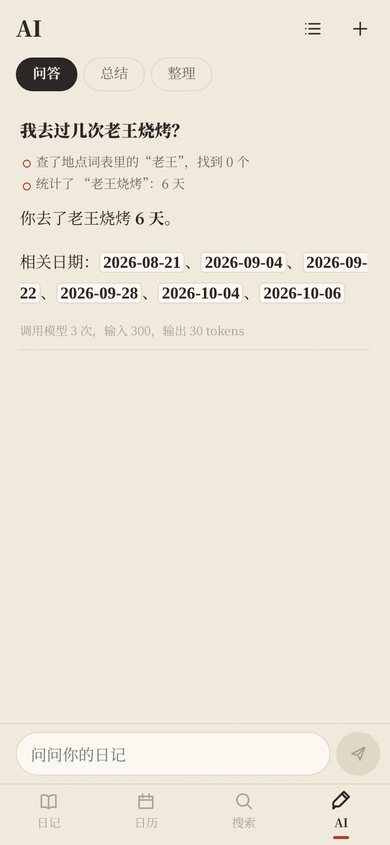
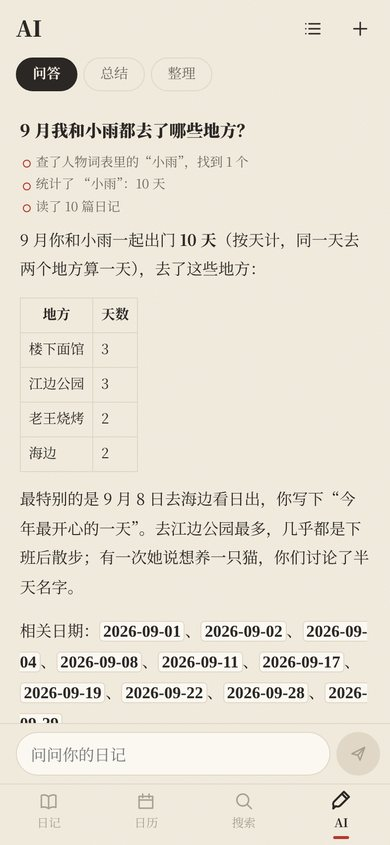
设置里新增“关于”页；README 换上更丰富的 AI 问答和总结截图
- 关于页：slogan“浮生若梦，落笔为记”、版本、检查更新、代码仓库、联系作者、开源许可与致谢
- README 截图改用虚构的三个月日记：多轮查询后带表格的 AI 回答、带小标题的月度总结、一篇日记的阅读视图

diff --git a/e2e/readme.test.ts b/e2e/readme.test.ts
@@ -1,0 +1,202 @@
+/**
+ * README 截图和“关于”页：用一份虚构的三个月日记，加一个会多轮查日记的模拟模型，
+ * 拍下 AI 问答和月度总结的样子（e2e/out/readme-*.png），再看一眼关于页。
+ * 日记里的人名、地名都是虚构的。
+ */
+import { afterAll, beforeAll, describe, expect, it } from 'vitest'
+import { chromium, type Browser, type Page, type Route } from 'playwright'
+import { spawn, type ChildProcess } from 'node:child_process'
+import { mkdirSync } from 'node:fs'
+import { startLlmMock, type LlmMock, type Turn } from '../tests/mocks/llmServer'
+
+const OUT = new URL('./out/', import.meta.url).pathname
+mkdirSync(OUT, { recursive: true })
+const PORT = 4176
+const BASE = `http://127.0.0.1:${PORT}/`
+const CORS = { 'Access-Control-Allow-Origin': '*', 'Access-Control-Allow-Headers': '*', 'Access-Control-Allow-Methods': 'GET,POST,OPTIONS' }
+
+let server: ChildProcess
+let browser: Browser
+let llm: LlmMock
+
+const ymd = (d: Date) => `${d.getFullYear()}-${String(d.getMonth() + 1).padStart(2, '0')}-${String(d.getDate()).padStart(2, '0')}`
+const md = (s: string) => `${Number(s.slice(5, 7))} 月 ${Number(s.slice(8, 10))} 日`
+
+interface Seed { date: string; mood: number; tags: string[]; people: string[]; places: string[]; weather: string; temp: number; body: string }
+
+/** 从三个月前到昨天，大约七成的日子写了日记 */
+function seedEntries(): Seed[] {
+  const out: Seed[] = []
+  const today = new Date()
+  const start = new Date(today.getFullYear(), today.getMonth() - 3, 1)
+  const weathers = ['晴', '多云', '小雨', '阴', '晴']
+  let i = 0
+  for (const d = new Date(start); d < today; d.setDate(d.getDate() + 1), i++) {
+    if ((i * 7) % 10 >= 7) continue
+    const date = ymd(d)
+    const k = i % 9
+    const w = weathers[i % weathers.length]
+    const temp = 18 + ((i * 3) % 13)
+    const s: Seed[] = [
+      { date, mood: 4, tags: ['约会'], people: ['小雨'], places: ['江边公园'], weather: w, temp, body: '下班后和小雨去江边公园散步，风很舒服。她说想养一只猫，我们讨论了半天叫什么名字。' },
+      { date, mood: 3, tags: ['工作'], people: ['阿杰'], places: ['公司'], weather: w, temp, body: '项目评审，阿杰的方案被挑了不少问题，晚上一起改到九点。' },
+      { date, mood: 5, tags: ['聚餐'], people: ['小雨', '阿杰'], places: ['老王烧烤'], weather: w, temp, body: '周末和小雨、阿杰在老王烧烤吃到很晚，阿杰讲了他去西藏的事。' },
+      { date, mood: 4, tags: ['运动'], people: [], places: ['健身房'], weather: w, temp, body: '去健身房练了腿，深蹲加到 80 公斤。' },
+      { date, mood: 2, tags: ['工作'], people: [], places: ['公司'], weather: w, temp, body: '线上出了故障，排查到半夜，原来是时区问题。很累。' },
+      { date, mood: 4, tags: ['读书'], people: [], places: ['图书馆'], weather: w, temp, body: '在图书馆读完了《置身事内》，对地方财政有了新的理解。' },
+      { date, mood: 5, tags: ['旅行'], people: ['小雨'], places: ['海边'], weather: '晴', temp, body: '和小雨去海边，看了日出。今年最开心的一天。' },
+      { date, mood: 3, tags: ['家人'], people: ['妈妈'], places: [], weather: w, temp, body: '给妈妈打电话，她说家里的桂花开了，让我国庆回去。' },
+      { date, mood: 4, tags: ['读书'], people: ['小雨'], places: ['楼下面馆'], weather: w, temp, body: '和小雨在楼下面馆吃牛肉面，聊最近在读的书。' },
+    ][k]
+    out.push(s)
+  }
+  return out
+}
+
+function fileOf(s: Seed): string {
+  const list = (k: string, v: string[]) => (v.length ? `${k}: [${v.join(', ')}]\n` : '')
+  return `---\ndate: ${s.date}\ncreated: ${s.date}T21:30:00+08:00\nupdated: ${s.date}T21:30:00+08:00\n` +
+    `weather: {text: ${s.weather}, temp_c: ${s.temp}}\nmood: ${s.mood}\n${list('tags', s.tags)}${list('people', s.people)}${list('places', s.places)}---\n\n${s.body}\n`
+}
+
+const seeds = seedEntries()
+const now = new Date()
+const lastMonth = ymd(new Date(now.getFullYear(), now.getMonth() - 1, 1)).slice(0, 7)
+const lm = Number(lastMonth.slice(5))
+const inLast = seeds.filter((s) => s.date.startsWith(lastMonth))
+const withYu = inLast.filter((s) => s.people.includes('小雨'))
+const byPlace = new Map<string, string[]>()
+for (const s of withYu) for (const p of s.places) byPlace.set(p, [...(byPlace.get(p) ?? []), s.date])
+const sea = withYu.find((s) => s.places.includes('海边'))
+
+/** 模拟模型：问答时先查词表、再计数、再读原文，最后写一段带表格的回答；总结时写一篇带小标题的月度总结 */
+function script({ system, turns, tools }: { system: string; turns: Turn[]; tools: string[] }) {
+  if (system.includes('月度日记总结')) {
+    const moods = inLast.map((s) => s.mood)
+    const good = moods.filter((m) => m >= 4).length
+    return {
+      text: `## ${lm} 月：忙碌里的小确幸\n\n这个月你写了 **${inLast.length} 篇**，其中 ${good} 天心情不错。工作上起起伏伏，生活里却有不少值得记住的时刻。\n\n` +
+        `### 主要的事\n\n- **工作**：项目评审被挑了不少问题，你和阿杰一起改到很晚；中旬一次线上故障排查到半夜，最后发现是时区问题。\n` +
+        `- **和小雨**：一起出门 ${withYu.length} 天${sea ? `，${md(sea.date)}去海边看日出，你写下“今年最开心的一天”` : ''}。她想养一只猫，你们为名字讨论了好久。\n` +
+        `- **读书和运动**：读完《置身事内》；健身房的深蹲加到了 80 公斤。\n\n` +
+        `### 常在一起的人和地方\n\n小雨出现得最多，其次是阿杰。常去的是江边公园、公司和老王烧烤。\n\n` +
+        `### 情绪\n\n月初和月中被工作压得有点喘不过气，几次加班的日子心情都偏低；周末和小雨出门、和朋友吃烧烤的日子，心情明显好起来。月底妈妈打来电话说桂花开了，你开始期待国庆回家。`,
+    }
+  }
+  if (tools.includes('get_time')) return { toolCalls: [{ name: 'get_time', args: {} }] }
+  const calls = turns.filter((t) => t.role === 'assistant' && t.toolCalls).flatMap((t) => t.toolCalls!)
+  const from = `${lastMonth}-01`
+  const to = `${lastMonth}-31`
+  if (calls.length === 0) return { toolCalls: [{ name: 'list_values', args: { field: 'people', query: '小雨' } }] }
+  if (calls.length === 1) return { toolCalls: [{ name: 'count_days', args: { terms: ['小雨'], from, to } }] }
+  if (calls.length === 2) return { toolCalls: [{ name: 'get_entries', args: { dates: withYu.map((s) => s.date) } }] }
+  const rows = [...byPlace.entries()].sort((a, b) => b[1].length - a[1].length)
+  return {
+    text: `${lm} 月你和小雨一起出门 **${withYu.length} 天**（按天计，同一天去两个地方算一天），去了这些地方：\n\n` +
+      `| 地方 | 天数 |\n| --- | --- |\n${rows.map(([p, d]) => `| ${p} | ${d.length} |`).join('\n')}\n\n` +
+      `${sea ? `最特别的是 ${md(sea.date)}去海边看日出，你写下“今年最开心的一天”。` : ''}去江边公园最多，几乎都是下班后散步；有一次她说想养一只猫，你们讨论了半天名字。\n\n` +
+      `相关日期：${withYu.map((s) => s.date).join('、')}`,
+  }
+}
+
+async function forward(route: Route, url: string) {
+  const req = route.request()
+  if (req.method() === 'OPTIONS') return route.fulfill({ status: 204, headers: CORS })
+  const res = await route.fetch({ url, method: req.method(), headers: await req.allHeaders(), postData: req.postDataBuffer() ?? undefined })
+  await route.fulfill({ status: res.status(), headers: { ...res.headers(), ...CORS }, body: await res.body() })
+}
+
+async function open(): Promise<{ page: Page; errors: string[]; close: () => Promise<void> }> {
+  const ctx = await browser.newContext({
+    viewport: { width: 393, height: 852 }, deviceScaleFactor: 2, isMobile: true, hasTouch: true,
+    locale: 'zh-CN', timezoneId: 'Asia/Shanghai', reducedMotion: 'reduce',
+  })
+  await ctx.route(/^https:\/\/api\.deepseek\.com\//, (r) => forward(r, r.request().url().replace('https://api.deepseek.com', `http://127.0.0.1:${llm.port}`)))
+  await ctx.route(/holiday-cn|jinrishici/, (r) => r.fulfill({ status: 404, headers: CORS, body: '' }))
+  const page = await ctx.newPage()
+  const errors: string[] = []
+  page.on('pageerror', (e) => errors.push(e.message))
+  page.on('dialog', (d) => d.accept())
+  await page.goto(BASE)
+  await page.waitForFunction(() => (window as unknown as { __diary?: unknown }).__diary && !document.body.innerText.includes('正在读取日记'))
+  return { page, errors, close: () => ctx.close() }
+}
+
+beforeAll(async () => {
+  llm = await startLlmMock(script, { key: 'sk-readme' })
+  server = spawn('npx', ['vite', 'preview', '--port', String(PORT), '--strictPort', '--host', '127.0.0.1'], { stdio: 'ignore' })
+  await new Promise((r) => setTimeout(r, 2500))
+  browser = await chromium.launch()
+})
+
+afterAll(async () => {
+  await browser?.close()
+  server?.kill()
+  await llm?.close()
+})
+
+describe('README 截图与关于页', () => {
+  it('AI 问答（多轮查日记、表格回答）和月度总结', async () => {
+    const { page, errors, close } = await open()
+    await page.evaluate(async (files) => {
+      const d = (window as unknown as { __diary: { repo: { store: { writeText(p: string, t: string): Promise<void> } } } }).__diary
+      for (const [p, t] of files) await d.repo.store.writeText(p, t)
+    }, seeds.map((s) => [`diary/entries/${s.date.slice(0, 4)}/${s.date}.md`, fileOf(s)] as [string, string]))
+    await page.reload()
+    await page.waitForFunction(() => !document.body.innerText.includes('正在读取日记'))
+
+    await page.goto(BASE + '#/settings/ai/new')
+    await page.getByRole('combobox').first().selectOption('DeepSeek')
+    await page.getByLabel('模型名').fill('deepseek-chat')
+    await page.getByLabel('API Key').fill('sk-readme')
+    await page.getByRole('button', { name: '保存' }).click()
+    await page.waitForURL(/#\/settings\/ai$|#\/ai$/)
+
+    await page.goto(BASE + '#/ai')
+    await page.getByLabel('问题', { exact: true }).fill(`${lm} 月我和小雨都去了哪些地方？`)
+    await page.getByRole('button', { name: '发送' }).click()
+    await page.getByText(/相关日期|一起出门/).first().waitFor()
+    await page.locator('.a table').waitFor()
+    expect(await page.locator('a.dl').count()).toBe(withYu.length)
+    // 从顶上拍：标签页、问题、查询步骤和回答都在一屏里
+    await page.evaluate(() => {
+      window.scrollTo(0, 0)
+      for (const el of document.querySelectorAll<HTMLElement>('*')) if (el.scrollTop) el.scrollTop = 0
+    })
+    await page.waitForTimeout(200)
+    await page.screenshot({ path: OUT + 'readme-ai.png' })
+
+    await page.goto(BASE + `#/ai/summary/${lastMonth}?generate=1`)
+    await page.getByText('忙碌里的小确幸').waitFor({ timeout: 30000 })
+    await page.screenshot({ path: OUT + 'readme-summary.png' })
+    await page.emulateMedia({ colorScheme: 'dark' })
+    await page.screenshot({ path: OUT + 'readme-summary-dark.png' })
+    await page.emulateMedia({ colorScheme: 'light' })
+
+    await page.goto(BASE + '#/')
+    await page.waitForTimeout(300)
+    await page.screenshot({ path: OUT + 'readme-home.png' })
+    if (sea) {
+      await page.goto(BASE + `#/entry/${sea.date}`)
+      await page.locator('article.reading').waitFor()
+      await page.screenshot({ path: OUT + 'readme-entry.png' })
+    }
+    expect(errors).toEqual([])
+    await close()
+  })
+
+  it('设置里的“关于”', async () => {
+    const { page, errors, close } = await open()
+    await page.goto(BASE + '#/settings')
+    await page.getByRole('link', { name: /关于浮生记/ }).click()
+    await page.getByText('浮生若梦，落笔为记').waitFor()
+    await page.getByText('solidity9527@gmail.com').waitFor()
+    await page.getByText('github.com/Bmaili/diary-app').waitFor()
+    await page.waitForFunction(() => (document.querySelector('.logo') as HTMLImageElement)?.complete)
+    await page.screenshot({ path: OUT + '90-about.png' })
+    await page.emulateMedia({ colorScheme: 'dark' })
+    await page.screenshot({ path: OUT + '90-about-dark.png' })
+    expect(errors).toEqual([])
+    await close()
+  })
+})

diff --git a/src/ui/views/AboutView.vue b/src/ui/views/AboutView.vue
@@ -1,0 +1,93 @@
+<script setup lang="ts">
+/** 关于：应用名、slogan、版本、代码仓库、联系作者、开源许可与致谢 */
+import { useRouter } from 'vue-router'
+import { Capacitor } from '@capacitor/core'
+import Icon from '../components/Icon.vue'
+import icon from '../../assets/app-icon.webp'
+import { APP_NAME, AUTHOR_EMAIL, CREDITS, LICENSE_NAME, RELEASES_URL, REPO_URL, SLOGAN } from '../../appInfo'
+
+const router = useRouter()
+const version = __APP_VERSION__
+
+/** 外部链接：真机上交给系统（浏览器、邮件 app）打开，浏览器调试时开新标签页 */
+function open(url: string) {
+  if (Capacitor.isNativePlatform()) window.location.href = url
+  else window.open(url, '_blank', 'noopener')
+}
+</script>
+
+<template>
+  <div class="settings about">
+    <header class="topbar">
+      <button class="icon-btn" aria-label="返回" @click="router.back()"><Icon name="back" /></button>
+      <h1>关于</h1>
+    </header>
+
+    <div class="hero">
+      <img :src="icon" alt="" class="logo" width="88" height="88" />
+      <div class="name">{{ APP_NAME }}</div>
+      <p class="slogan">{{ SLOGAN }}</p>
+      <p class="ver">版本 <span class="num">{{ version }}</span></p>
+    </div>
+
+    <p class="intro">
+      一个把日记存成普通 Markdown 文件的安卓日记本。日记只在你的手机上，云端同步和 AI 都由你自己选择、自己配置；
+      离开这个 app，任何 Markdown 工具都能读你的日记。
+    </p>
+
+    <section>
+      <button class="item link" @click="open(RELEASES_URL)">
+        <div>
+          <div>检查更新</div>
+          <div class="desc">在 GitHub Releases 下载最新版本，覆盖安装即可，日记不会丢</div>
+        </div>
+        <Icon name="right" class="chev" />
+      </button>
+      <button class="item link" @click="open(REPO_URL)">
+        <div>
+          <div>代码仓库</div>
+          <div class="desc url">{{ REPO_URL.replace('https://', '') }}</div>
+        </div>
+        <Icon name="right" class="chev" />
+      </button>
+      <button class="item link" @click="open(`mailto:${AUTHOR_EMAIL}?subject=${encodeURIComponent(APP_NAME + ' 反馈')}`)">
+        <div>
+          <div>联系作者</div>
+          <div class="desc url">{{ AUTHOR_EMAIL }}</div>
+        </div>
+        <Icon name="right" class="chev" />
+      </button>
+      <div class="item">
+        <div>
+          <div>开源许可</div>
+          <div class="desc">{{ LICENSE_NAME }} 许可证：可以自由使用、修改和分发，保留版权声明即可。全部代码由 AI 编写。</div>
+        </div>
+      </div>
+    </section>
+
+    <section>
+      <h2>致谢</h2>
+      <button v-for="c in CREDITS" :key="c.name" class="item link credit" @click="open(c.url)">
+        <div>
+          <div>{{ c.name }}</div>
+          <div class="desc">{{ c.note }}</div>
+        </div>
+        <Icon name="right" class="chev" />
+      </button>
+    </section>
+
+    <p class="foot">浮生若梦，为欢几何 —— 李白</p>
+  </div>
+</template>
+
+<style scoped>
+.hero { display: flex; flex-direction: column; align-items: center; padding: 12px 20px 8px; text-align: center; }
+.logo { width: 88px; height: 88px; border-radius: 22px; box-shadow: 0 6px 18px -8px rgba(0, 0, 0, 0.35); }
+.name { margin-top: 14px; font-family: var(--serif); font-size: 28px; font-weight: 700; letter-spacing: 0.12em; }
+.slogan { margin: 10px 0 0; font-family: var(--kai); font-size: 18px; letter-spacing: 0.2em; color: var(--muted); }
+.ver { margin: 8px 0 0; font-size: 12px; color: var(--faint); }
+.intro { margin: 12px 20px 8px; font-size: 14px; line-height: 1.8; color: var(--muted); }
+.url { word-break: break-all; }
+.credit { min-height: 52px; }
+.foot { margin: 28px 16px 40px; text-align: center; font-family: var(--kai); font-size: 13px; color: var(--faint); }
+</style>

diff --git a/src/ui/views/SettingsView.vue b/src/ui/views/SettingsView.vue
@@ -16,6 +16,7 @@ import Switch from '../components/Switch.vue'
 import { prefs } from '../../prefs'
 import { enabled, syncState, BACKENDS } from '../../syncService'
 import { expectExternal } from '../../lockService'
+import { SLOGAN } from '../../appInfo'
 import { holidaySourceChanged, holidayStatus, refreshHolidays } from '../../holidayService'
 
 const router = useRouter()
@@ -275,7 +276,7 @@ const syncLine = computed(() => {
       <h2>后台运行</h2>
       <p class="desc pad">
         OPPO、vivo、一加的系统会清理后台的 app。这个 app 在你打开它、离开编辑页时同步，所以不开自启动也能正常备份。
-        如果想让失败的同步在后台多重试几次，可以在系统设置的“应用管理 → 日记 → 耗电管理”里允许后台运行。
+        如果想让失败的同步在后台多重试几次，可以在系统设置的“应用管理 → 浮生记 → 耗电管理”里允许后台运行。
       </p>
     </section>
 
@@ -300,6 +301,16 @@ const syncLine = computed(() => {
         </div>
         <button class="text-btn danger" :disabled="!!busy || !stats.test" @click="doClearTest">清除</button>
       </div>
+    </section>
+
+    <section>
+      <router-link to="/settings/about" class="item link">
+        <div>
+          <div>关于浮生记</div>
+          <div class="desc">{{ SLOGAN }} · 版本 {{ appVersion }}</div>
+        </div>
+        <Icon name="right" class="chev" />
+      </router-link>
     </section>
 
     <p class="version" @click="tapVersion">浮生记 {{ appVersion }}，共 {{ stats.total }} 篇</p>

diff --git a/src/appInfo.ts b/src/appInfo.ts
@@ -1,0 +1,22 @@
+/** 关于页、README 里用到的应用信息 */
+export const APP_NAME = '浮生记'
+export const SLOGAN = '浮生若梦，落笔为记'
+export const AUTHOR_EMAIL = 'solidity9527@gmail.com'
+export const REPO_URL = 'https://github.com/Bmaili/diary-app'
+export const RELEASES_URL = `${REPO_URL}/releases/latest`
+export const LICENSE_NAME = 'MIT'
+
+/** 用到的开源项目和服务 */
+export const CREDITS: { name: string; url: string; note: string }[] = [
+  { name: 'Vue', url: 'https://vuejs.org', note: '界面' },
+  { name: 'Capacitor', url: 'https://capacitorjs.com', note: '打包成安卓 app' },
+  { name: 'lunar-javascript', url: 'https://github.com/6tail/lunar-javascript', note: '农历、节气' },
+  { name: 'holiday-cn', url: 'https://github.com/NateScarlet/holiday-cn', note: '法定节假日' },
+  { name: '今日诗词', url: 'https://www.jinrishici.com', note: '联网诗词（可选）' },
+  { name: 'Open-Meteo', url: 'https://open-meteo.com', note: '天气' },
+  { name: '和风天气', url: 'https://www.qweather.com', note: '天气（可选）' },
+  { name: '高德开放平台', url: 'https://lbs.amap.com', note: '地址与附近地点' },
+  { name: 'age', url: 'https://age-encryption.org', note: '云端加密' },
+  { name: 'marked', url: 'https://marked.js.org', note: 'Markdown 显示' },
+  { name: '霞鹜文楷', url: 'https://github.com/lxgw/LxgwWenKai', note: '图标印章里的字' },
+]

diff --git a/src/ui/router.ts b/src/ui/router.ts
@@ -19,6 +19,7 @@ export const router = createRouter({
     { path: '/ai/summary/:period', component: () => import('./views/SummaryView.vue') },
     { path: '/settings/reminder', component: () => import('./views/ReminderSettingsView.vue') },
     { path: '/settings/lock', component: () => import('./views/LockSettingsView.vue') },
+    { path: '/settings/about', component: () => import('./views/AboutView.vue') },
     { path: '/settings/trash', component: () => import('./views/TrashView.vue') },
     { path: '/settings/restore', component: () => import('./views/RestoreView.vue') },
     { path: '/entry/:date', component: () => import('./views/EditorView.vue') },

diff --git a/README.md b/README.md
@@ -1,15 +1,22 @@
 # 浮生记
 
+> 浮生若梦，落笔为记
+
 一个安卓日记 app：日记就是手机上的普通 Markdown 文件，可选同步到阿里云 OSS 或 GitHub 私有仓库，可以接入任意大模型，对全部日记提问、写月度和年度总结。界面是“宣纸水墨”风格，带农历、节气、法定节假日和每日诗词。
 
 全部代码由 AI 编写。你可以直接下载打包好的 APK，也可以 fork 之后让 AI 按你的想法继续改，推送后 GitHub 会自动打包。
 
 <p>
-  <img src="docs/screenshots/home-dark.jpg" width="200" alt="首页（深色）">
-  <img src="docs/screenshots/editor.jpg" width="200" alt="写日记">
-  <img src="docs/screenshots/calendar-dark.jpg" width="200" alt="日历（深色）">
-  <img src="docs/screenshots/ai.jpg" width="200" alt="AI 问答">
+  <img src="docs/screenshots/home.jpg" width="190" alt="首页：梅枝、每日诗词和日记列表">
+  <img src="docs/screenshots/entry.jpg" width="190" alt="一篇日记：心情、天气、标签和人物">
+  <img src="docs/screenshots/calendar-dark.jpg" width="190" alt="日历（深色）：心情、农历和节假日">
 </p>
+<p>
+  <img src="docs/screenshots/ai.jpg" width="190" alt="AI 问答：多轮查日记后给出带表格的回答，日期可点开">
+  <img src="docs/screenshots/summary.jpg" width="190" alt="AI 写的月度总结">
+</p>
+
+截图里的日记是虚构的示例。
 
 ## 特点
 

diff --git a/SPEC.md b/SPEC.md
@@ -280,6 +280,7 @@ locked: false
 - 应用锁：PIN、指纹解锁、离开多久后重新上锁、在最近任务里隐藏内容。
 - 数据：导出为 zip、重建索引、最近删除、查看数据格式说明。
 - 后台运行：说明为什么不需要开自启动。
+- 关于：应用名、slogan“浮生若梦，落笔为记”、版本、检查更新（打开 GitHub Releases）、代码仓库、联系作者（邮件）、开源许可与致谢。外部链接交给系统浏览器或邮件 app 打开。
 - 页面底部显示版本号；连点 5 次打开开发者选项（生成测试日记等）。
 
 ### 5.8 外观：“宣纸水墨”
